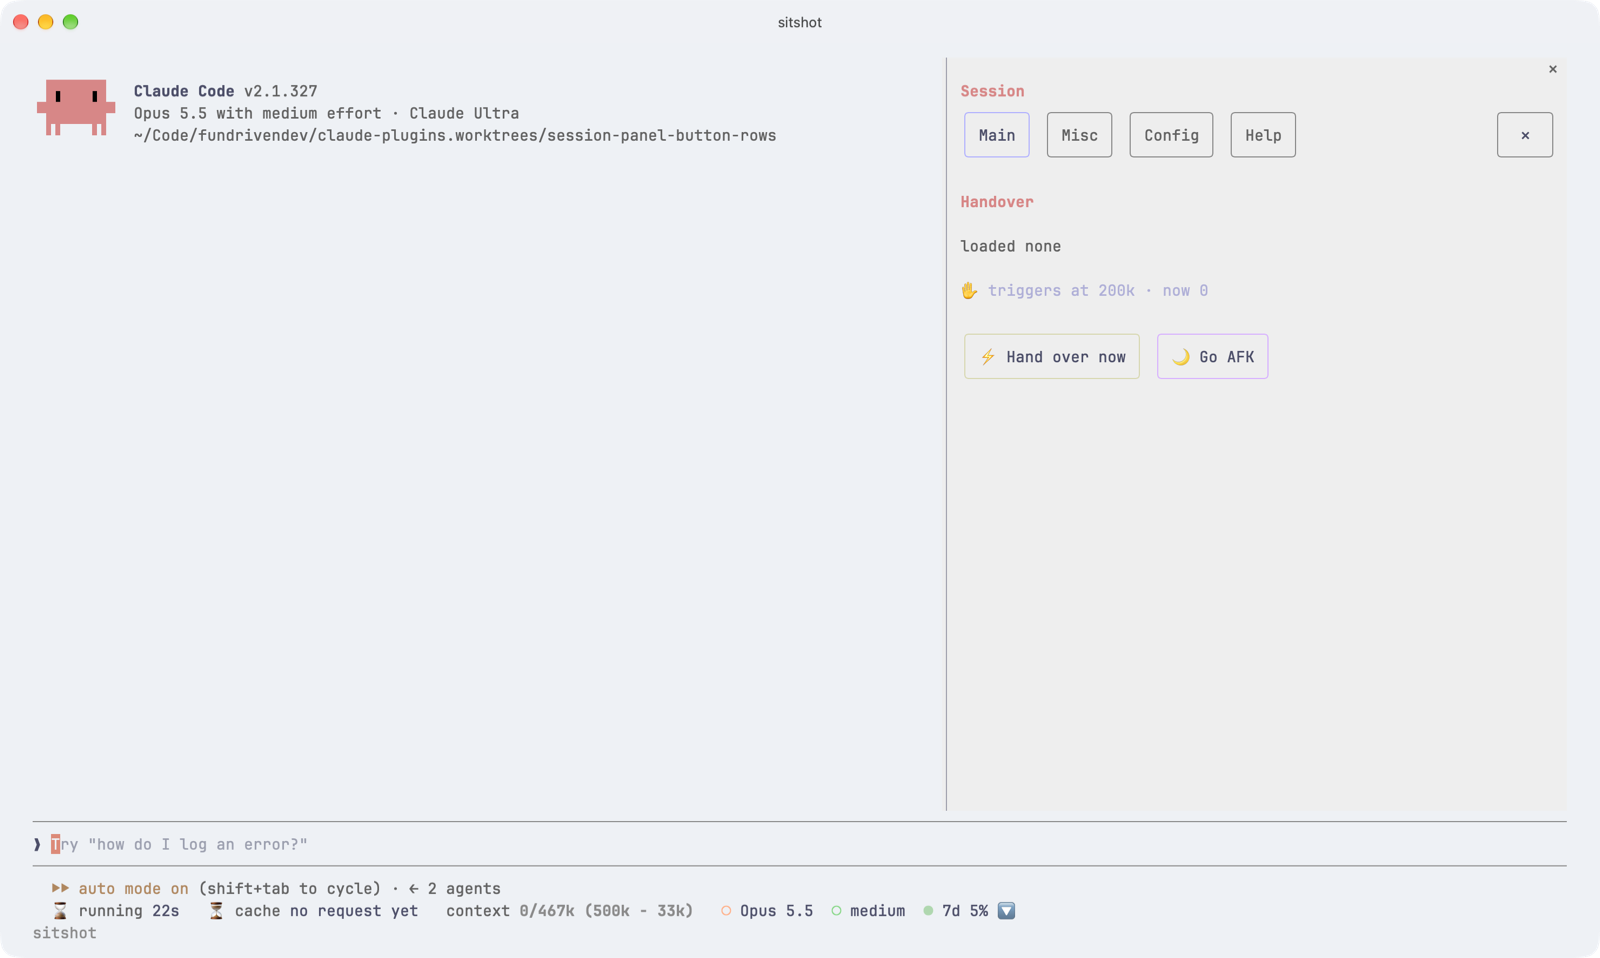
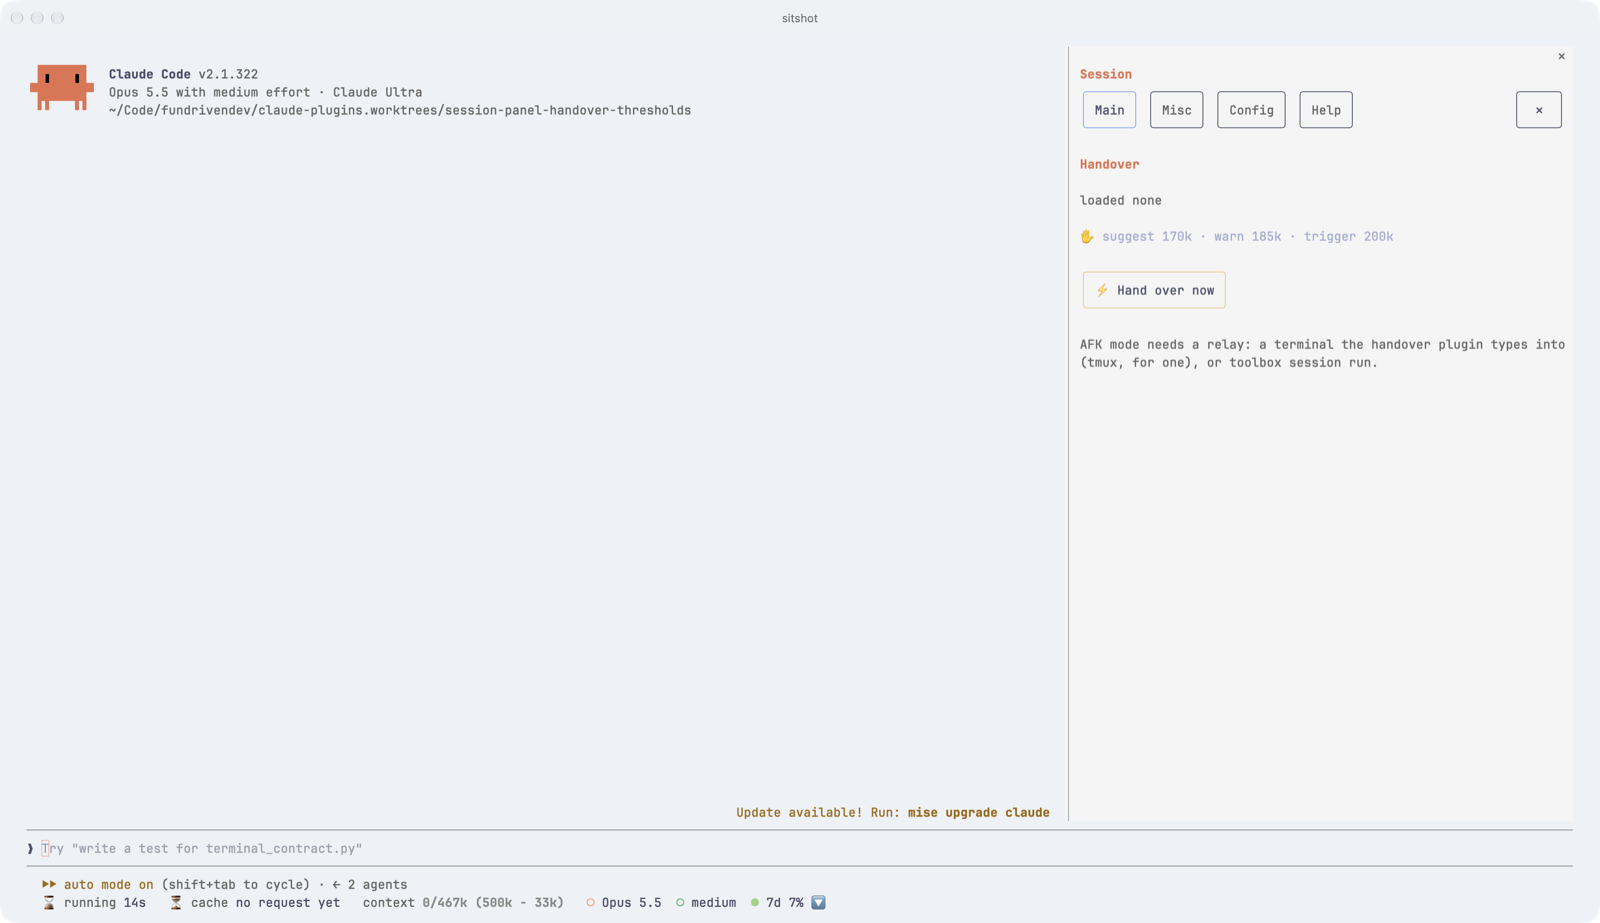
session-mods 0.11.0: the Handover line shows every handover threshold, not the token count (#97)
The session panel's Handover line drops the current token count (the
status-line mod already shows it) and lists every threshold the handover
plugin's state gives.

Before: `✋ triggers at 200k · now 103k`
After: `✋ suggest 170k · warn 185k · trigger 200k`

- `suggest` (`suggest_tokens`), `warn` (`warn_at_tokens`, where the line
turns yellow) and `trigger` (`trigger_tokens`), named as the handover
plugin names them.
- A passed threshold is dimmed with a ✓ (`✓ suggest 170k`), so the next
one stands out; picked from the live pane.
- A threshold set to 0 reads `off`; with the trigger off there is no
warn point.
- Help tab preview, `docs/main-tab.md` and `docs/screenshot.png`
updated; tests cover the text, the dimming and the absence of the token
count.
- session-mods 0.12.0.

Open questions: none
Decisions: none

🤖 Generated with [Claude Code](https://claude.com/claude-code)

---------

diff --git a/plugins/session-mods/tests/panel.test.ts b/plugins/session-mods/tests/panel.test.ts
@@ -34,10 +34,16 @@ describe('helpers', () => {
     expect(fileMeta(null, null)).toBeNull()
     const thresholds = { suggest: 150_000, warnAt: 167_500, trigger: 185_000 }
     const ho = { isOn: true, unknown: null, loaded: null, written: null, thresholds, thresholdsError: null, pending: null, isWriting: false, isWindingDown: false, error: null, resume: null, afk: null, relays: null }
-    expect(handoverStatus(ho, 92_000).text).toBe('triggers at 185k · now 92k')
+    expect(handoverStatus(ho, 92_000).text).toBe('suggest 150k · warn 167k · trigger 185k')
+    expect(handoverStatus(ho, 160_000).text).toBe('✓ suggest 150k · warn 167k · trigger 185k')
+    expect(handoverStatus(ho, 170_000).marks?.map(m => m.isPassed)).toEqual([true, true, false])
+    expect(handoverStatus(ho, 185_000)).toEqual({ text: 'wind-down on the next tool call', color: '#ef9f76', marks: null })
+    expect(handoverStatus({ ...ho, thresholds: { suggest: 150_000, warnAt: -20_000, trigger: 0 } }, 160_000)).toMatchObject({ text: '✓ suggest 150k · trigger off', color: '#a5adce' })
+    expect(handoverStatus({ ...ho, thresholds: { suggest: 0, warnAt: 165_000, trigger: 185_000 } }, 92_000).text).toBe('suggest off · warn 165k · trigger 185k')
+    for (const tokens of [0, 92_000, 160_000, 170_000, 190_000]) expect(handoverStatus(ho, tokens).text).not.toContain('now')
     expect(handoverStatus(ho, 167_000).color).toBe('#a5adce')
     expect(handoverStatus(ho, 167_500).color).toBe('#e5c890')
-    expect(handoverStatus({ ...ho, thresholds: null, thresholdsError: 'why' }, 92_000)).toEqual({ text: 'thresholds unknown · why', color: '#e78284' })
+    expect(handoverStatus({ ...ho, thresholds: null, thresholdsError: 'why' }, 92_000)).toEqual({ text: 'thresholds unknown · why', color: '#e78284', marks: null })
     expect(handoverPhase({ ...ho, thresholds: null, thresholdsError: 'why' }, 190_000)).toBeNull()
     expect(handoverPhase(ho, 92_000)).toBeNull()
     expect(handoverPhase({ ...ho, isWindingDown: true }, 92_000)).toBe('winding')
@@ -452,6 +458,32 @@ test('the handover section leaves its states to Help, and Hand over now starts t
   await ui.press({ key: 'handover:trigger' })
   expect(sent).toEqual(['/handover:trigger'])
   expect(await ui.find({ key: 'handover:trigger' })).toBeUndefined()
+  await ui.unmount()
+})
+
+test('the Handover line lists every threshold, the passed ones dimmed with a check, and never the token count', async ($, on) => {
+  mock.clock(on, { now: 1_000 })
+  on('session.usage', () => ({ value: { startedAt: 0, context: { tokens: 230_000 } as never, rateLimits: [] } }))
+  const state = { on: true, thresholds: { suggest: 200_000, warn_at: 225_000, trigger: 250_000 } }
+  on('process.run', ($, e) => {
+    const answer = e.argv.includes(HANDOVER_STATE) ? { exitCode: 0, stdout: JSON.stringify(state) } : { exitCode: 1, stdout: '' }
+    return { value: { stderr: '', ...answer } } as never
+  })
+  on('session.id', () => ({ value: 's1' }) as never)
+  on('session.start', ($, e) => ({ cwd: e.cwd }))
+  on('session.model', () => ({ value: 'opus' }))
+  on('command.register', () => ({ value: undefined }) as never)
+  on('session.messages', () => ({ value: [] }))
+  on('ui.open', () => ({ value: undefined }) as never)
+  on('env.get', () => ({ value: undefined }))
+  on('settings.read', () => ({ value: {} }))
+  await $.session.start({ cwd: '/tmp', surface: 'terminal', isInteractive: true })
+
+  const ui = await $.ui.mount({ plugin: 'session-mods', surface: 'terminal', ...PANE })
+  expect((await ui.find({ text: /^✓ suggest 200k$/ }))?.props.dimColor).toBe(true)
+  expect((await ui.find({ text: /^ · ✓ warn 225k$/ }))?.props.dimColor).toBe(true)
+  expect((await ui.find({ text: /^ · trigger 250k$/ }))?.props.dimColor).toBe(false)
+  expect(await ui.find({ text: /now 230k/ })).toBeUndefined()
   await ui.unmount()
 })
 

diff --git a/plugins/session-mods/hooks/panel.tsx b/plugins/session-mods/hooks/panel.tsx
@@ -1,4 +1,4 @@
-import type { FileChange, Handover, Prompt, Step } from '../types'
+import type { FileChange, Handover, HandoverThresholds, Prompt, Step } from '../types'
 
 /** How long ago, coarsely: minutes within the hour, then hours, then days. */
 export const ago = (ms: number): string => {
@@ -111,19 +111,35 @@ export const fileMeta = (lines: number | null, modifiedAt: number | null): strin
 
 export const kilo = (n: number) => (n < 1000 ? String(n) : n < 10_000 ? `${(n / 1000).toFixed(1)}k` : `${Math.floor(n / 1000)}k`)
 
-/** What the handover plugin's status line says, in the same words and colours. */
-export const handoverStatus = (h: Handover, tokens: number): { text: string; color: string } => {
-  if (h.error) return { text: `failed · ${h.error}`, color: '#e78284' }
-  if (h.isWriting) return { text: 'writing…', color: '#ef9f76' }
-  if (h.written) return { text: 'ready · run /clear', color: '#a6d189' }
+/** One threshold on the Handover line: its name as the handover plugin's state gives it, its value, and whether the context has passed it. */
+export type ThresholdMark = { name: 'suggest' | 'warn' | 'trigger'; text: string; isPassed: boolean }
+
+/** Every threshold the handover state gives, in order: `suggest 120k`, `warn 180k`, `trigger 200k`; `off` for one set to 0, and no warn point without a trigger. */
+export const thresholdMarks = (t: HandoverThresholds, tokens: number): ThresholdMark[] => {
+  const mark = (name: ThresholdMark['name'], value: number): ThresholdMark => ({
+    name,
+    text: value > 0 ? `${name} ${kilo(value)}` : `${name} off`,
+    isPassed: value > 0 && tokens >= value,
+  })
+  return [mark('suggest', t.suggest), ...(t.trigger > 0 ? [mark('warn', t.warnAt)] : []), mark('trigger', t.trigger)]
+}
+
+/** A threshold as the line writes it: a passed one with a ✓ before its name. */
+export const markText = (m: ThresholdMark) => (m.isPassed ? `✓ ${m.text}` : m.text)
+
+/** What the handover plugin's status line says, in the same words and colours; `marks` holds the thresholds when the line lists them. */
+export const handoverStatus = (h: Handover, tokens: number): { text: string; color: string; marks: ThresholdMark[] | null } => {
+  if (h.error) return { text: `failed · ${h.error}`, color: '#e78284', marks: null }
+  if (h.isWriting) return { text: 'writing…', color: '#ef9f76', marks: null }
+  if (h.written) return { text: 'ready · run /clear', color: '#a6d189', marks: null }
   const t = h.thresholds
-  if (!t) return { text: `thresholds unknown · ${h.thresholdsError}`, color: '#e78284' }
-  const suggested = t.suggest > 0 && tokens >= t.suggest
-  if (!t.trigger) return { text: suggested ? 'suggested' : 'trigger off', color: '#a5adce' }
-  if (tokens >= t.trigger) return { text: 'wind-down on the next tool call', color: '#ef9f76' }
+  if (!t) return { text: `thresholds unknown · ${h.thresholdsError}`, color: '#e78284', marks: null }
+  if (t.trigger > 0 && tokens >= t.trigger) return { text: 'wind-down on the next tool call', color: '#ef9f76', marks: null }
+  const marks = thresholdMarks(t, tokens)
   return {
-    text: `${suggested ? 'suggested · ' : ''}triggers at ${kilo(t.trigger)} · now ${kilo(tokens)}`,
-    color: tokens >= t.warnAt ? '#e5c890' : '#a5adce',
+    text: marks.map(markText).join(' · '),
+    color: t.trigger > 0 && tokens >= t.warnAt ? '#e5c890' : '#a5adce',
+    marks,
   }
 }
 

diff --git a/plugins/session-mods/hooks/register.tsx b/plugins/session-mods/hooks/register.tsx
@@ -9,7 +9,7 @@ import { changesOf, treeRows } from './files'
 import { HANDOVER_STATE, handoverOf } from './handover'
 import { ARTIFACTS, DOC_CONTEXT, HANDOVER_DIR, PLANS_DIR, WRITTEN_SINCE, artifactOf, type DocContext, docContextOf, docGroups, docOf, docPaths, tilde, writtenSpots } from './documents'
 import { frontMatterOf, fromNotes, isTopic, NOTE_HEAD, notesOf, notesPathsIn, PR_JQ, prLiveOf, rexSessionLabelled, rexSessionOf, STALE_MS, staleOf, TOPIC_NOTES, WORKER_LOOK, workerOf, type RexSession } from './situation'
-import { afkGoal, afkLine, afkState, AFK, ago, cleanTitle, clockTime, describeCall, fileMeta, handoverActions, handoverPhase, handoverStatus, headline, HELP_EXAMPLE, intentOf, isPastTrigger, isRunning, kilo, lastSentence, NEXT_ACTIONS, oneLine, phaseLine, PHASES, previousPrompts, promptOf, promptText, SIGN, SIGN_COLOR, TRIGGER_NOW, type HandoverPhase } from './panel'
+import { afkGoal, afkLine, afkState, AFK, ago, cleanTitle, clockTime, describeCall, fileMeta, handoverActions, handoverPhase, handoverStatus, headline, markText, HELP_EXAMPLE, intentOf, isPastTrigger, isRunning, kilo, lastSentence, NEXT_ACTIONS, oneLine, phaseLine, PHASES, previousPrompts, promptOf, promptText, SIGN, SIGN_COLOR, TRIGGER_NOW, type HandoverPhase } from './panel'
 import { PR_COLOR, RANK, findRefs, linearOfResult, prState, refKey, refsOfGh, repoOfRemote, titleOfSlug } from './tracker'
 import type { GithubRef, LinearRef } from './tracker'
 
@@ -1161,7 +1161,17 @@ export const register: Register = (on, options) => {
         const statusLine = phase ? (
           <Text color={PHASES[phase].color}>{phaseLine(phase, now)}</Text>
         ) : (
-          <Text color={status.color}>✋ {status.text}</Text>
+          <Text color={status.color}>
+            ✋{' '}
+            {status.marks
+              ? status.marks.map((m, i) => (
+                  <Text key={m.name} dimColor={m.isPassed}>
+                    {i > 0 ? ' · ' : ''}
+                    {markText(m)}
+                  </Text>
+                ))
+              : status.text}
+          </Text>
         )
         const afk = afkParts()
         const byKey: Record<string, Action> = {
@@ -1632,8 +1642,10 @@ export const register: Register = (on, options) => {
             )}
             {helpRow(
               'status',
-              <Text color="#e5c890">✋ triggers at 150k · now 141k</Text>,
-              'Where the handover plugin winds the session down; yellow once close, "suggested" once a handover is worth doing at the next boundary.',
+              <Text color="#e5c890">
+                ✋ <Text dimColor>✓ suggest 120k · ✓ warn 160k</Text> · trigger 200k
+              </Text>,
+              'Every threshold the handover plugin sets: suggest (a handover is worth doing at the next boundary), warn (the line turns yellow) and trigger (the session winds down). A passed one is dimmed, with a ✓.',
             )}
             {helpRow(
               'trigger',

diff --git a/plugins/session-mods/docs/main-tab.md b/plugins/session-mods/docs/main-tab.md
@@ -4,9 +4,11 @@ The topic at a glance: Handover (AFK mode included), then Situation when the `si
 
 ## Handover
 
-What the `handover` plugin's status line says (when the handover triggers, or that it is ready or writing), the handover this session loaded on a line of its own beneath the section's title (`loaded none` until one loads), a blank line on either side, and the one it wrote beneath the status. Each shows by its title (front matter `summary`, else its `# Handover:` heading), linked to its file and followed, greyed, by its line count and last change (`(142 lines · 2026-10-07 09:32)`).
+What the `handover` plugin's status line says (its thresholds, or that it is ready or writing), the handover this session loaded on a line of its own beneath the section's title (`loaded none` until one loads), a blank line on either side, and the one it wrote beneath the status. Each shows by its title (front matter `summary`, else its `# Handover:` heading), linked to its file and followed, greyed, by its line count and last change (`(142 lines · 2026-10-07 09:32)`).
 
 The pane renders what the handover plugin answers: it runs the installed plugin's `handover.py state --session <id> --json` (handover 0.29.0 and later) and reads none of its files. Without that answer (the plugin not installed, or older), the section reads `Handover state unknown` and why.
+
+Before a handover starts, the line lists every threshold the handover state gives, as the handover plugin names them ([Settings](../../handover/docs/settings.md)): `✋ suggest 170k · warn 185k · trigger 200k`, `suggest` from `suggest_tokens`, `warn` its `warn_at_tokens` (where the line turns yellow: halfway from the suggestion to the trigger, else 20k before the trigger), `trigger` from `trigger_tokens`. A threshold the context has passed is dimmed, with a ✓ (`✓ suggest 170k`), so the next one stands out; one set to 0 reads `off` (`trigger off`, and then no `warn`). Past the trigger, the wind-down's phase takes the line's place. The context's size is the status line's, not the pane's.
 
 While a handover is under way the status line animates its phase: `◐ Winding down` (the tasks in progress finish), `✎··· Writing the handover`, then `● Ready for the next session`.
 
